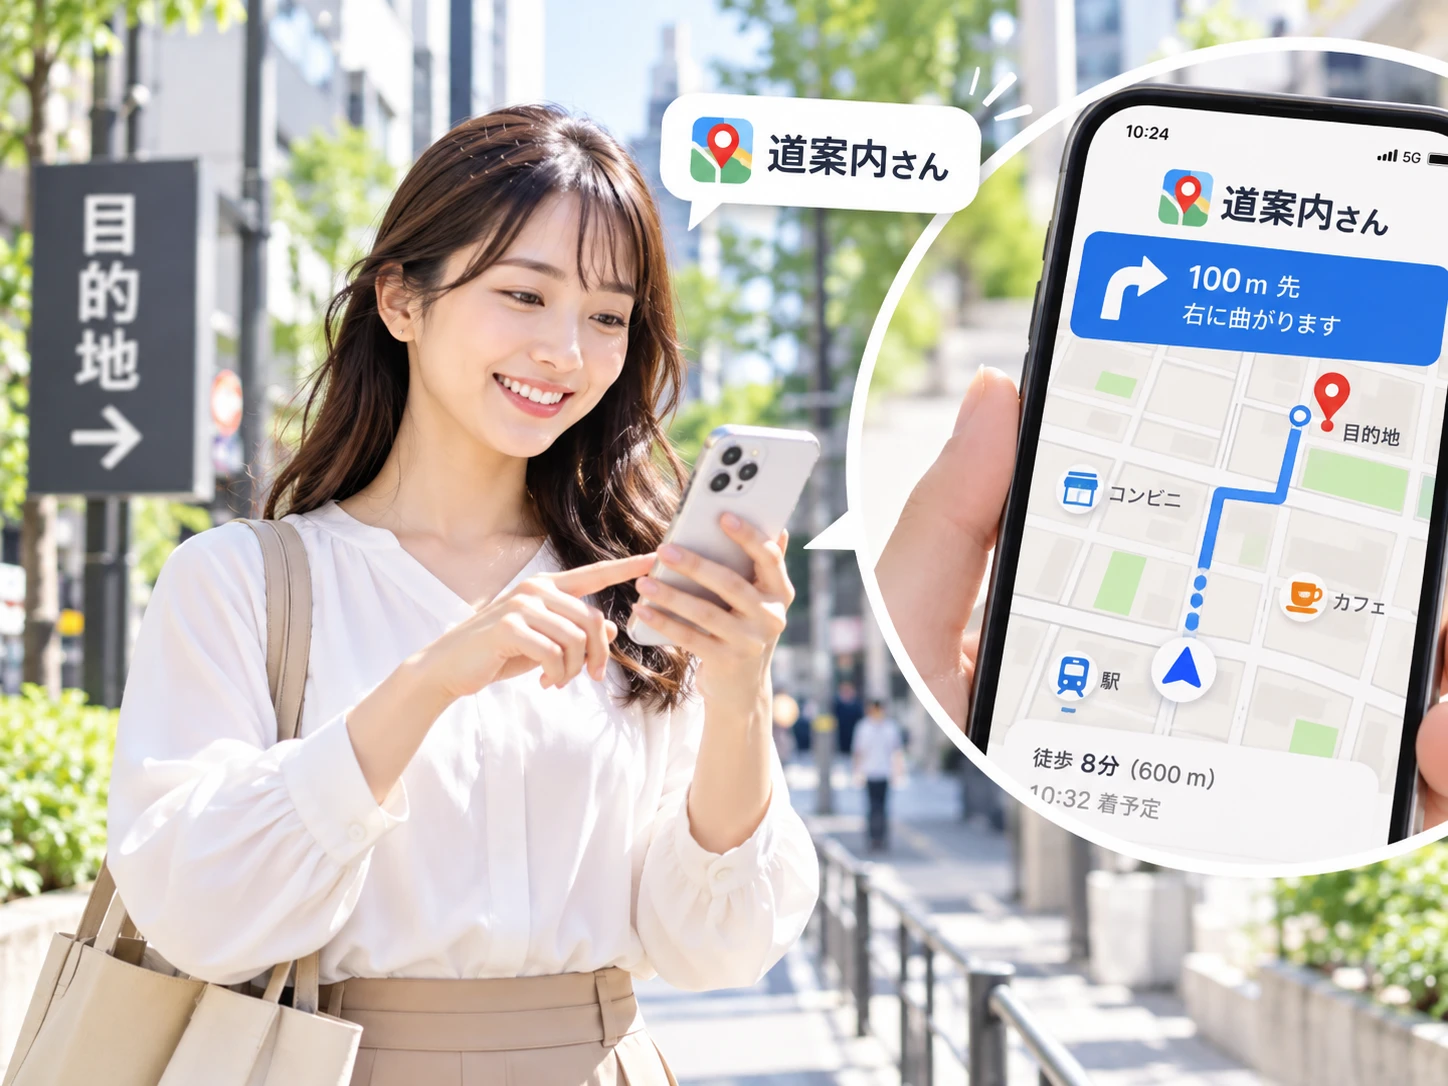
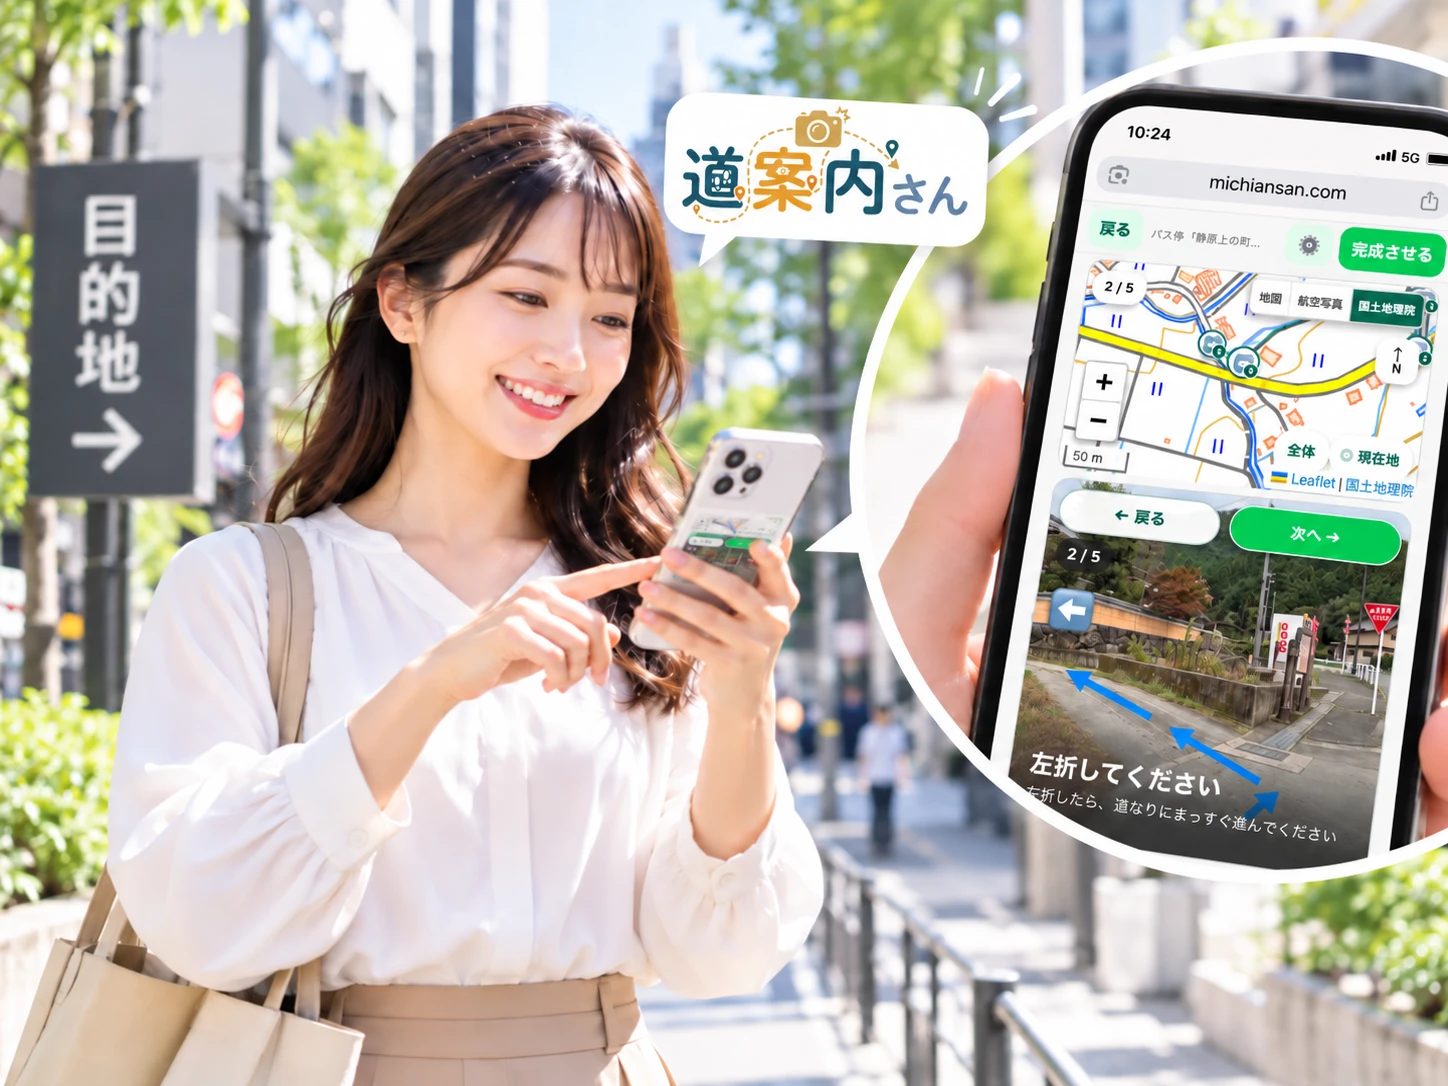
feat(index): WORKS 01 のイメージ写真を実画面入りのものへ差し替え
写真内の端末に映る画面を、実際の道案内さんの案内画面（2/5・地図＋現地写真＋
「左折してください」）に差し替えた版を採用。吹き出しのロゴも実物になっている。

これにより、同じサイトに並ぶ実画面（portfolio.html のヒーロー・実際のサービス
画面・STEP 1〜4）と、写真内の画面が食い違わなくなる。

寸法は 1448x1086 で据え置きのため HTML の width/height 属性は変更なし。
alt を画面の実際の内容に合わせて更新した。

Chromium で PC(1280) とスマホ(390) を再検証し 20/20 OK。

Claude-Session: https://claude.ai/code/session_01Xo6r7yYrGfXBhepCYrMmWG

diff --git a/index.html b/index.html
@@ -65,7 +65,7 @@
 
       <article class="featured-work">
         <a class="featured-visual" href="./portfolio.html" aria-label="道案内さんの開発事例を見る">
-          <img class="featured-photo" src="./images/michiansan-hero.webp" alt="スマートフォンで道案内さんを見ながら街を歩く様子。画面に目的地までの道順が表示されている" loading="lazy" width="1448" height="1086">
+          <img class="featured-photo" src="./images/michiansan-hero.webp" alt="スマートフォンで道案内さんを見ながら街を歩く様子。画面には地図と現地写真、「左折してください」の案内が表示されている" loading="lazy" width="1448" height="1086">
           <span class="work-badge">WORKS 01</span>
         </a>
         <div class="featured-copy">
